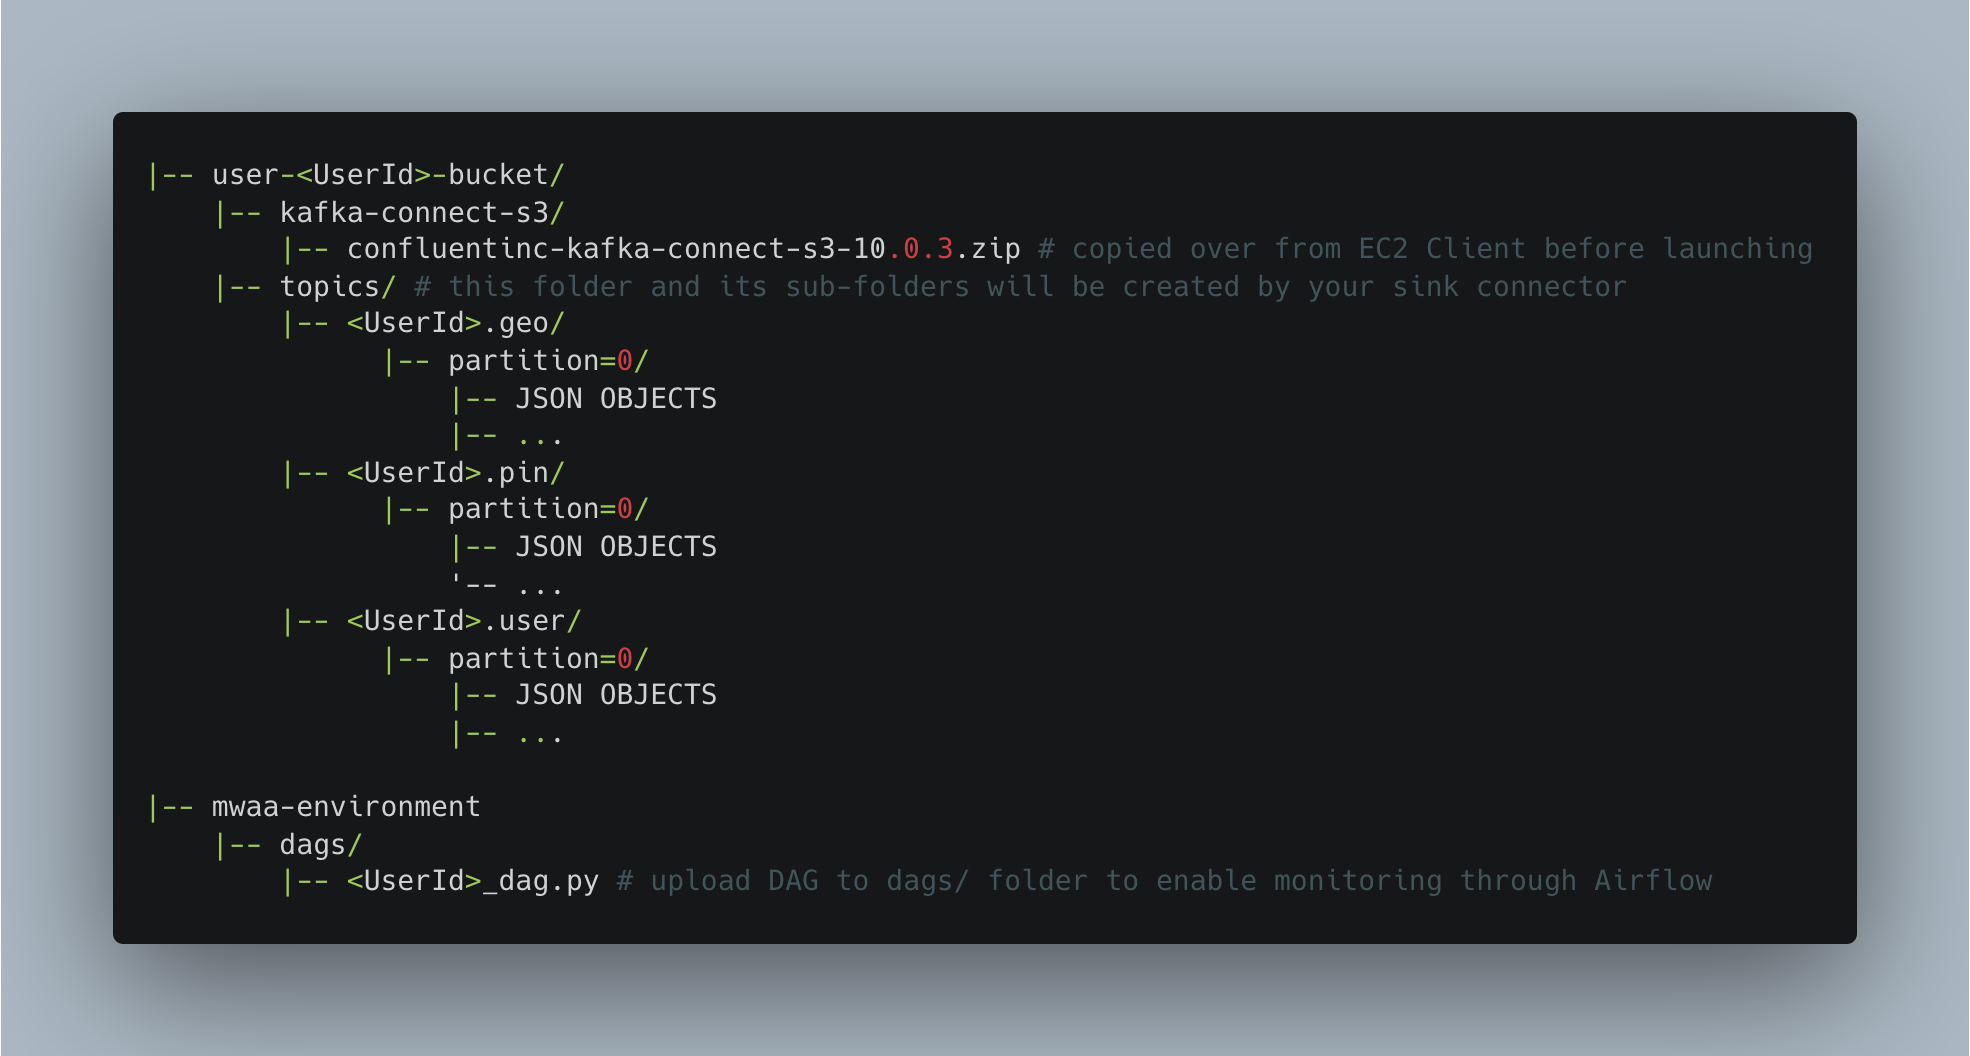
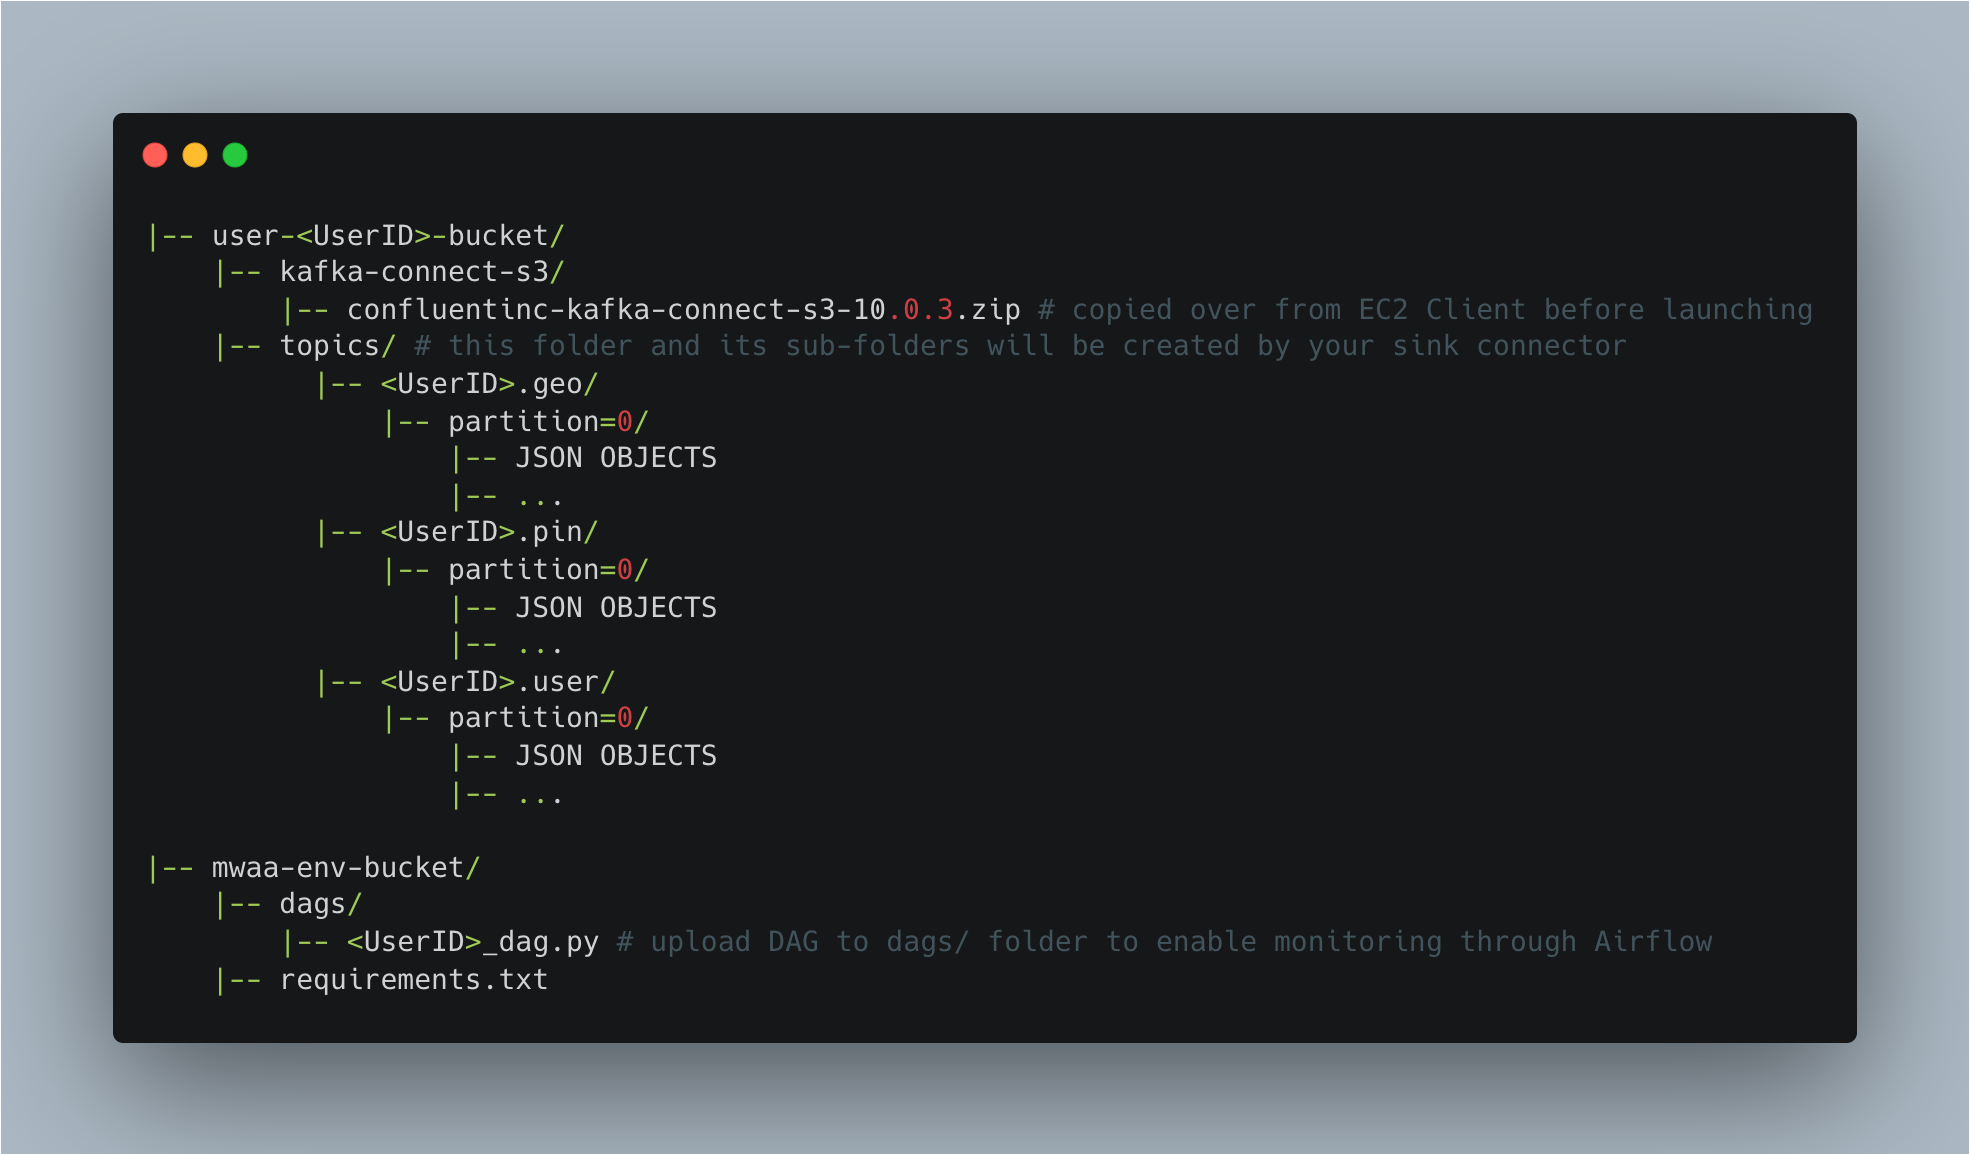
improved mwaa-s3-databricks setup instructions

diff --git a/README.md b/README.md
@@ -100,7 +100,10 @@ In terms of AWS Cloud infrastucture, the pipeline is made up of the following co
     - `streaming-<UserID>-pin`
     - `streaming-<UserID>-user`
     - `streaming-<UserID>-geo`
-- An MWAA environment and an S3 bucket within it to hold the DAGs for the batch layer job orchestration, with API-token access to allow Databricks to connect to the AWS account
+- An MWAA environment and an S3 bucket designated to it to hold the DAGs for the batch layer job orchestration
+- To create an MWAA-Databricks connection, the user will need to create an API-token access in Databricks, the MWAA-environment-designated S3 bucket will need a `requirements.txt` file uploaded to it in order to have the required Python dependencies uploaded, including `apache-airflow[databricks]`, and the path to the `requirements.txt` file will need to be specified on the MWAA console (follow the instructions provided [here](https://docs.aws.amazon.com/mwaa/latest/userguide/working-dags-dependencies.html))
+- After the `requirements.txt` file is uploaded, the MWAA-Databricks connection can be activated from the Apache Airflow UI with the following settings:
+![screen grab airflow ui databricks-mwaa connection setup](readme-assets/databricks-mwaa-connection-setup.png)
 
 In order to follow principles of least privilege, it would be recommended to:
 - Create an IAM user with full S3 access permissions through which to authorize connection between Databricks and AWS S3
@@ -145,7 +148,7 @@ Follow the instructions in [Usage](#usage) below for how to actually launch the 
 
 ## [File Structure](#file-structure)
 
-The files available in this repository represent those that make up the posting emulation program from my **local machine**, the notebooks that make up the processing layers of the pipeline in **the Databricks Workspace** online, and the `dags/` repository in **the S3 bucket within the MWAA environment on AWS** which monitors and orchestrates the processing of the batch layer data.
+The files available in this repository represent those that make up the posting emulation program from my **local machine**, the notebooks that make up the processing layers of the pipeline in **the Databricks Workspace** online, and the `dags/` repository in **the S3 bucket designated to the MWAA environment on AWS** which monitors and orchestrates the processing of the batch layer data.
 
 Also represented in the sections below are the required file structures of the S3 buckets on the AWS Console and of the EC2 Client Machine.
 
@@ -198,6 +201,7 @@ $ ./kafka-rest-start /home/ec2-user/confluent-7.2.0/etc/kafka-rest/kafka-rest.pr
 $ python user_posting_emulation.py
 ```
 - Press ENTER at any time in the terminal to stop the data posting and bring the user_posting_emulation script to a close:
+
 ![](readme-assets/giphy-data-being-sent-from-terminal.gif)
 
 - Within Databricks, manually trigger the stream-processing layer by running the code blocks sequentially in `stream_processing_pipeline.ipynb`
